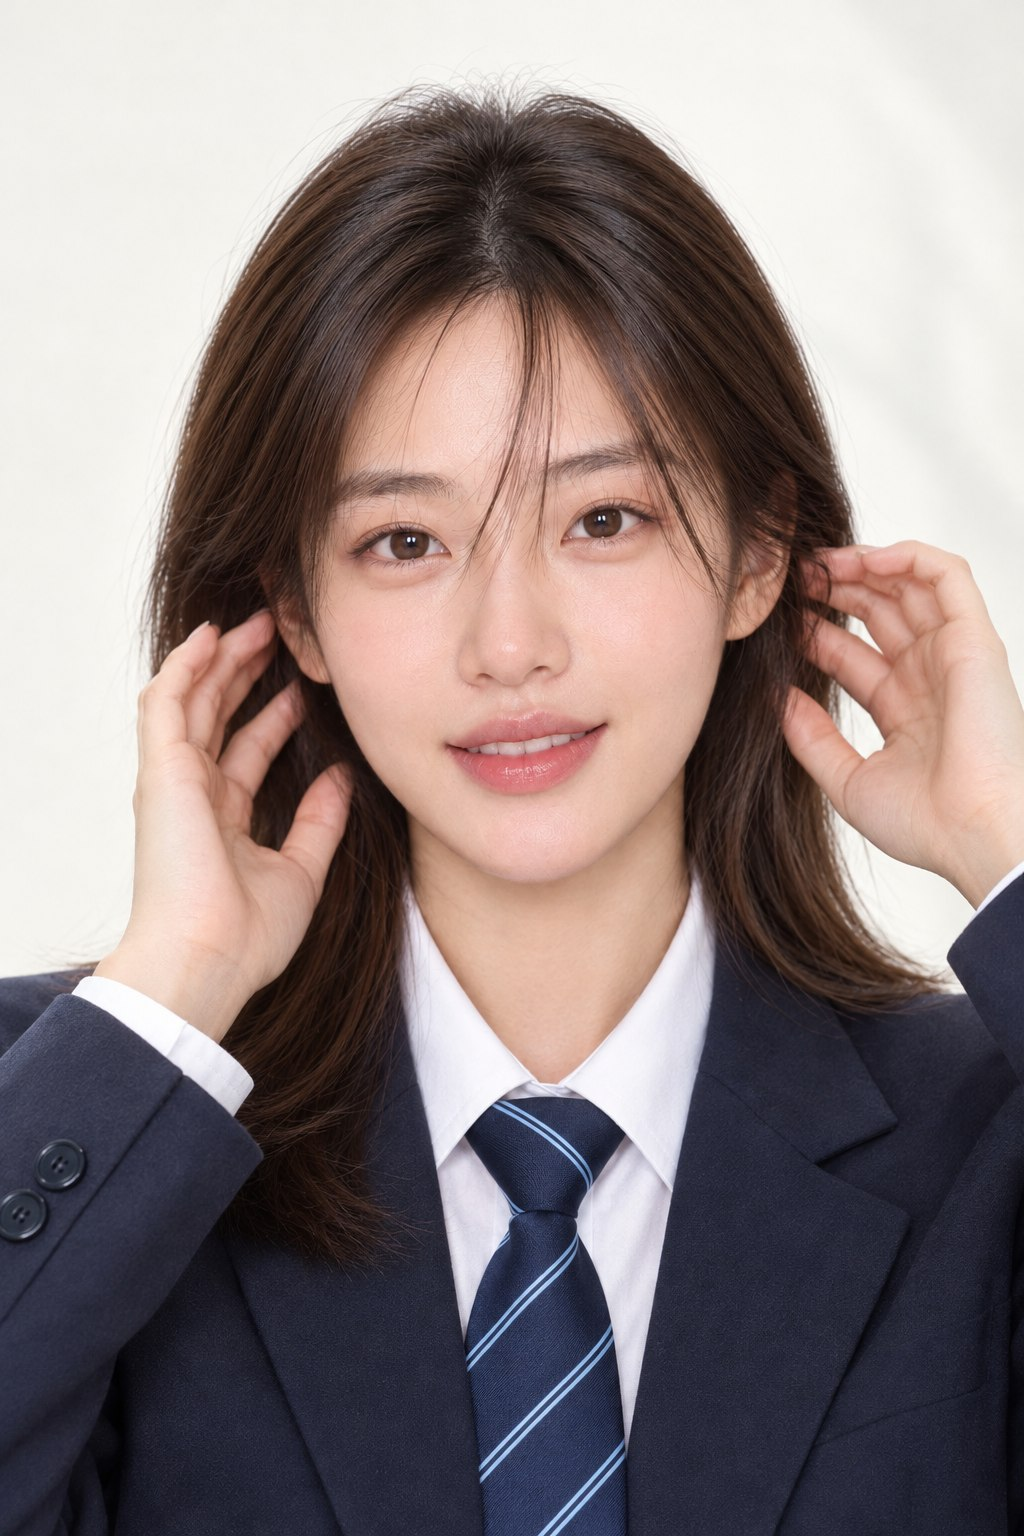
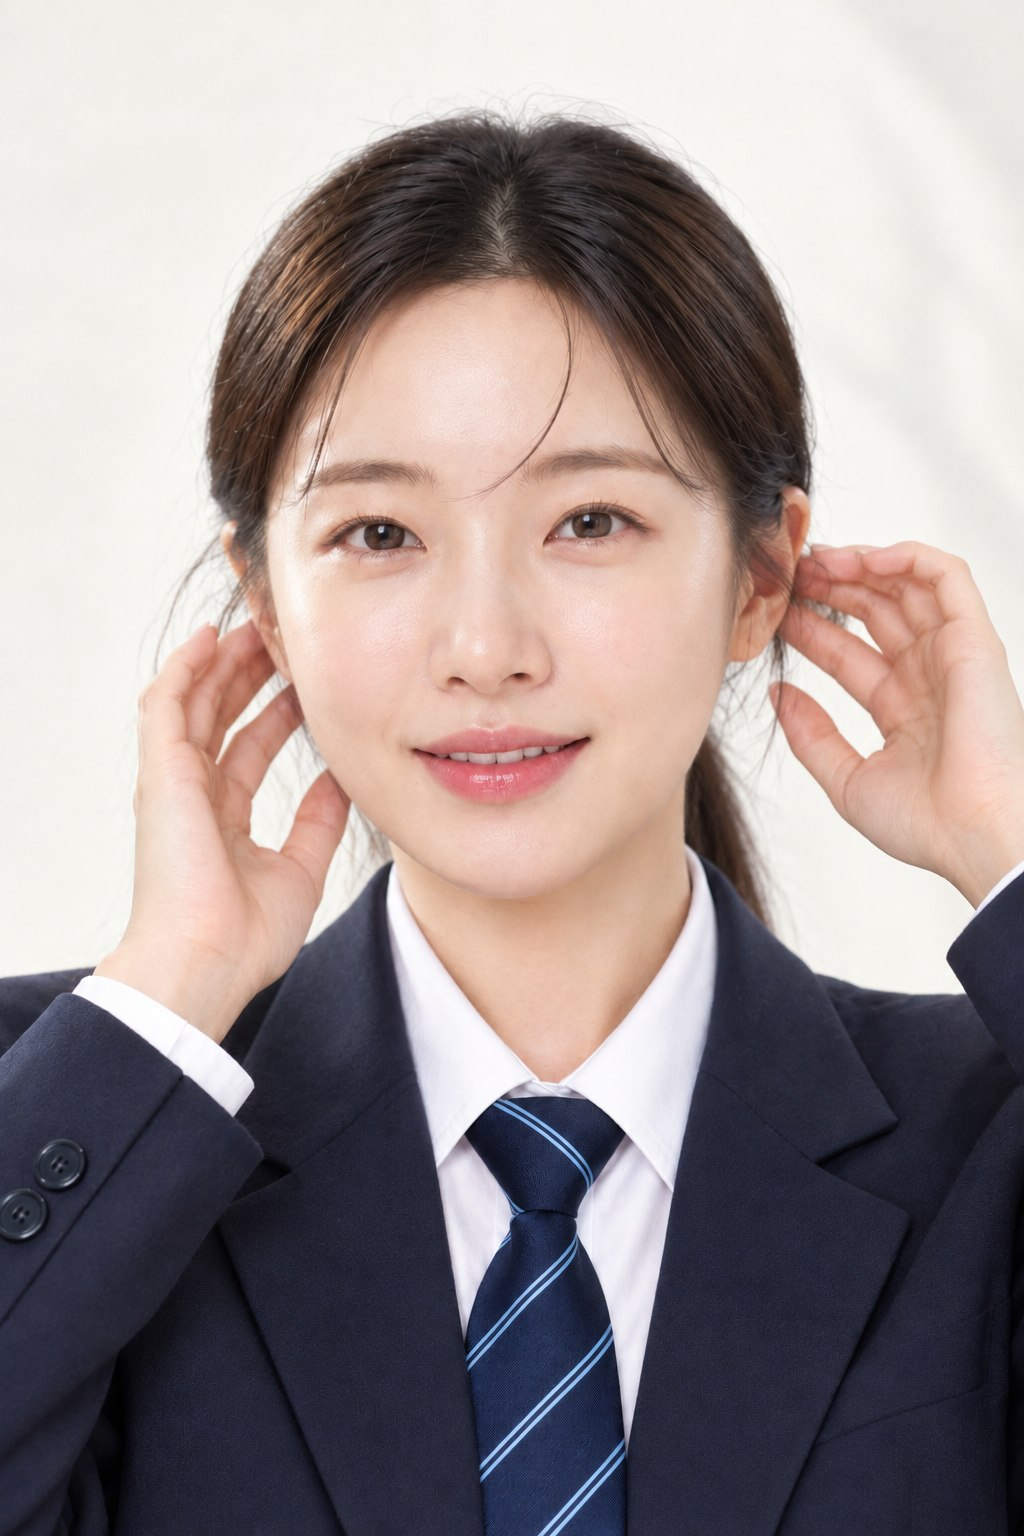
events-2026-12: EXAM model swap (hero, polaroids, ID photo) from new character shot

diff --git a/events-2026-12/exam/index.html b/events-2026-12/exam/index.html
@@ -38,7 +38,7 @@
         <span class="print-back b1" aria-hidden="true"></span>
         <span class="print-back b2" aria-hidden="true"></span>
         <figure class="print-main">
-          <img class="print-photo" src="assets/hero.jpg" data-alt="alt_hero" alt="" width="1024" height="1536">
+          <img class="print-photo" src="assets/hero.jpg?v=m2" data-alt="alt_hero" alt="" width="1024" height="1536">
         </figure>
         <img class="deco clip" src="assets/miri/paperclip.webp" alt="">
         <img class="deco hero-star" src="assets/miri/sticker_star_blue.webp" alt="">
@@ -102,7 +102,7 @@
           </div>
           <figure class="polaroid tilt-r">
             <img class="deco tape" src="assets/miri/tape_washi_cream.webp" alt="">
-            <img class="ph" src="assets/p1.jpg" data-alt="alt_p1" alt="" width="880" height="1100">
+            <img class="ph" src="assets/p1.jpg?v=m2" data-alt="alt_p1" alt="" width="880" height="1100">
             <figcaption data-copy="p1_caption"></figcaption>
           </figure>
         </div>
@@ -135,7 +135,7 @@
         <div class="d-grid flip">
           <figure class="polaroid tilt-l">
             <img class="deco tape" src="assets/miri/tape_gingham_blue.webp" alt="">
-            <img class="ph" src="assets/p2.jpg" data-alt="alt_p2" alt="" width="880" height="1100">
+            <img class="ph" src="assets/p2.jpg?v=m2" data-alt="alt_p2" alt="" width="880" height="1100">
             <figcaption data-copy="p2_caption"></figcaption>
           </figure>
           <div class="postits">
@@ -197,7 +197,7 @@
           </div>
           <figure class="polaroid tilt-r">
             <img class="deco tape" src="assets/miri/tape_washi_cream.webp" alt="">
-            <img class="ph" src="assets/p3.jpg" data-alt="alt_p3" alt="" width="880" height="1100">
+            <img class="ph" src="assets/p3.jpg?v=m2" data-alt="alt_p3" alt="" width="880" height="1100">
             <figcaption data-copy="p3_caption"></figcaption>
           </figure>
         </div>
@@ -240,7 +240,7 @@
       <div class="tk-main">
         <div class="tk-head"><span class="tk-en">ADMISSION TICKET</span><h2 class="tk-title" id="tk-title" data-copy="ticket_title"></h2></div>
         <div class="tk-body">
-          <figure class="tk-photo"><img src="assets/id.jpg" data-alt="alt_id" alt="" width="720" height="900"></figure>
+          <figure class="tk-photo"><img src="assets/id.jpg?v=m2" data-alt="alt_id" alt="" width="720" height="900"></figure>
           <dl class="tk-rows">
             <div class="tk-row"><dt data-copy="label_booking"></dt><dd><a data-link="booking" data-copy="link_naver"></a><span class="sep">/</span><a data-link="kakao" data-copy="link_kakao"></a></dd></div>
             <div class="tk-row"><dt data-copy="label_place"></dt><dd data-copy="place"></dd></div>

diff --git a/events-2026-12/app.js b/events-2026-12/app.js
@@ -564,7 +564,7 @@
 
     function aptosShell(it) {
       var ownPage = typeof it.page === 'string' && /^[a-z0-9-]+\/index\.html$/.test(it.page);
-      var frame = H('iframe', { class: 'aptos-frame', src: ownPage ? it.page + '?lang=' + encodeURIComponent(state.locale) + '&v=20261029-exam3' : (it.kind === 'aptos' ? 'aptos/index.html?lang=' + encodeURIComponent(state.locale) : 'landings/index.html?item=' + encodeURIComponent(it.id) + '&lang=' + encodeURIComponent(state.locale)) + '&v=20261028-care1', title: it.label + ' ' + state.locale + ' 완성 디자인', loading: 'eager' });
+      var frame = H('iframe', { class: 'aptos-frame', src: ownPage ? it.page + '?lang=' + encodeURIComponent(state.locale) + '&v=20261029-exam4' : (it.kind === 'aptos' ? 'aptos/index.html?lang=' + encodeURIComponent(state.locale) : 'landings/index.html?item=' + encodeURIComponent(it.id) + '&lang=' + encodeURIComponent(state.locale)) + '&v=20261028-care1', title: it.label + ' ' + state.locale + ' 완성 디자인', loading: 'eager' });
       state.aptos = { el: frame, itemId: it.id, locale: state.locale };
       return H('div', { class: 'aptos-shell' }, [
         H('p', { class: 'aptos-note', text: typeof it.note === 'string' && it.note ? it.note : it.kind === 'aptos' ? '문구·금액을 더블클릭하면 수정할 수 있습니다. 원문의 ‘최대 49%’ 배지는 표시 가격과 계산이 맞지 않아 확인이 필요합니다. 기존 행사 기간은 10/21~11/30입니다.' : '검토용 디자인입니다. 문구·금액을 더블클릭하면 공유 저장됩니다. 행사 가격·기간·적용 조건은 최종 확인 대상입니다.' }),

diff --git a/events-2026-12/index.html b/events-2026-12/index.html
@@ -5,7 +5,7 @@
   <meta name="viewport" content="width=device-width, initial-scale=1">
   <meta name="robots" content="noindex, nofollow, noarchive">
   <title>12월 이벤트 · 수능 이벤트 공유 검토</title>
-  <link rel="stylesheet" href="style.css?v=20261029-exam3">
+  <link rel="stylesheet" href="style.css?v=20261029-exam4">
 </head>
 <body>
   <div id="app"></div>
@@ -14,6 +14,6 @@
     // Shared-review Worker base URL. Parent edits this one line if the deployed Worker URL differs.
     window.REVIEW_API = window.REVIEW_API || 'https://bb-event-review-sync.beautyblossom.workers.dev';
   </script>
-  <script src="app.js?v=20261029-exam3"></script>
+  <script src="app.js?v=20261029-exam4"></script>
 </body>
 </html>
